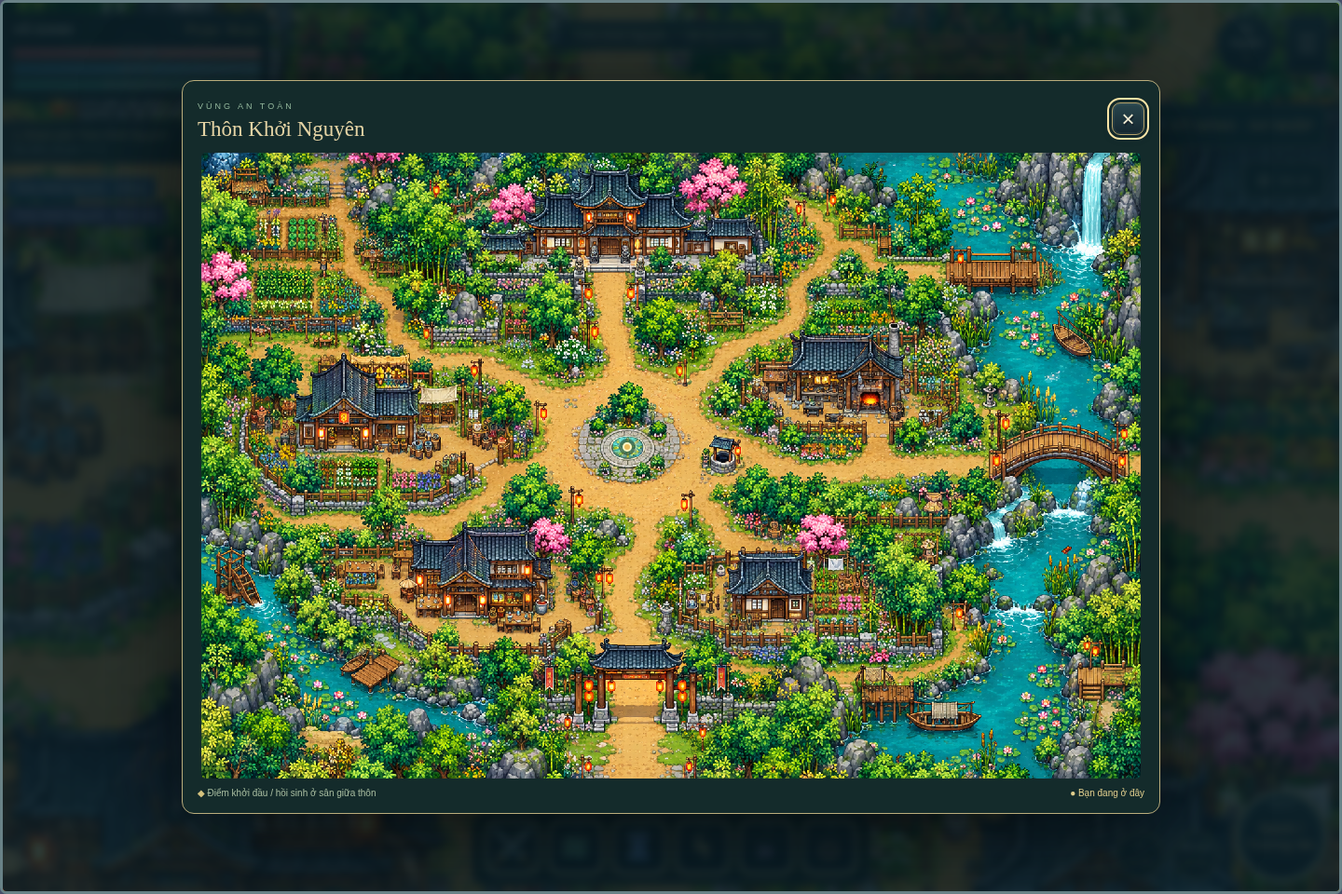
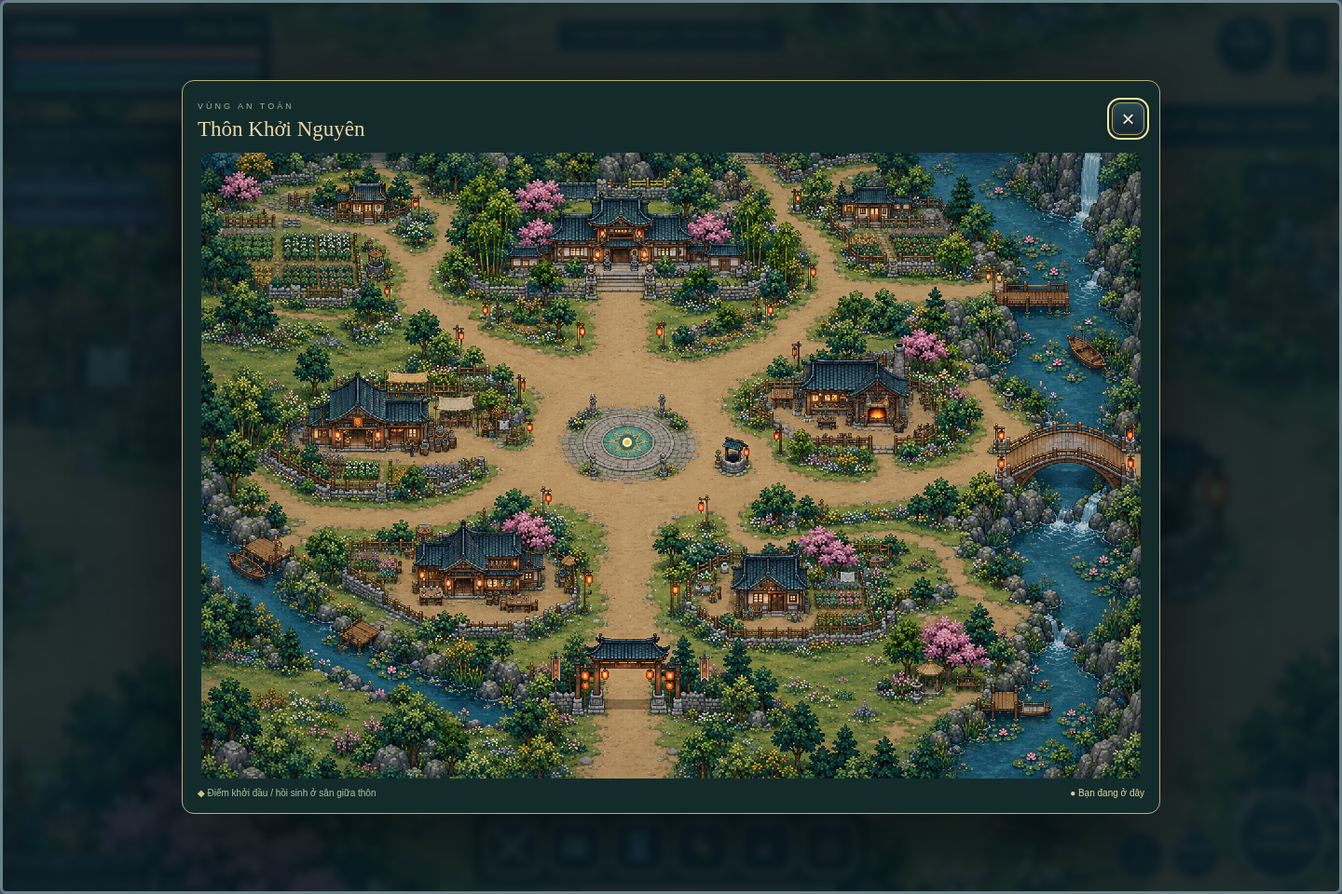
Expand village paths and add a softer palette with saved brightness control

diff --git a/world.js b/world.js
@@ -1,31 +1,37 @@
-/* Navigation is authored against assets/thon-khoi-nguyen.png (1536 × 1024).
-   Corridors follow the painted paths; buildings and scenery remain solid. */
+/* Coordinates are authored against the bundled 1536×1024 artwork, then
+   expanded 1.5× into a 2304×1536 playable world. Road widths follow the new art. */
 (function(root){
- const TILE=32,W=1536,H=1024,name='Thôn Khởi Nguyên',version=5;
- const spawn={x:696,y:482},elder={x:650,y:240};
- const buildings=[{x:460,y:20,w:460,h:176,name:'Nhà trưởng thôn'},{x:151,y:341,w:217,h:149,name:'Dược đường'},{x:944,y:287,w:215,h:148,name:'Tiệm rèn'},{x:347,y:609,w:220,h:151,name:'Khách điếm'},{x:853,y:651,w:153,h:128,name:'Nhà dân'}];
+ const TILE=32,SCALE=1.5,W=2304,H=1536,name='Thôn Khởi Nguyên',version=6;
+ const point=([x,y])=>[x*SCALE,y*SCALE];
+ const position=(x,y)=>({x:x*SCALE,y:y*SCALE});
+ const spawn=position(696,474),elder=position(680,269);
+ const buildings=[{x:505,y:47,w:365,h:181,name:'Nhà trưởng thôn'},{x:169,y:365,w:215,h:126,name:'Dược đường'},{x:967,y:329,w:216,h:164,name:'Tiệm rèn'},{x:346,y:610,w:222,h:145,name:'Khách điếm'},{x:856,y:650,w:147,h:111,name:'Nhà dân'},{x:212,y:50,w:108,h:70,name:'Nhà ven ruộng'},{x:1034,y:53,w:126,h:80,name:'Nhà sườn núi'}].map(b=>({...b,x:b.x*SCALE,y:b.y*SCALE,w:b.w*SCALE,h:b.h*SCALE}));
  const routes=[
-  {r:25,p:[[760,520],[798,550],[850,558],[912,514]]},
-  {r:35,p:[[670,205],[665,260],[666,330],[630,385],[609,432],[598,490],[632,546],[692,567],[752,541],[785,487],[763,425],[728,389],[670,367],[630,385]]},
-  {r:29,p:[[630,387],[560,401],[492,380],[425,346],[340,326],[299,281],[269,218],[232,170],[226,99],[210,33]]},
-  {r:30,p:[[598,490],[533,486],[492,532],[424,567],[354,581],[308,552],[282,513],[269,481]]},
-  {r:26,p:[[425,346],[439,395],[475,433],[511,445],[533,486]]},
-  {r:29,p:[[780,448],[831,409],[886,372],[942,338],[973,281],[995,215],[1014,157],[1030,119],[1006,61]]},
-  {r:24,p:[[995,215],[1061,191],[1134,184],[1217,189],[1303,189],[1357,189]]},
-  {r:31,p:[[785,487],[856,494],[912,514],[989,519],[1069,514],[1141,504],[1221,502],[1289,500],[1326,487],[1371,481],[1424,488],[1474,507],[1504,513]]},
-  {r:29,p:[[1093,440],[1098,455],[1105,493],[1141,504]]},
-  {r:29,p:[[692,567],[703,607],[736,645],[710,703],[695,753],[714,800],[708,844],[697,897],[695,948],[677,990]]},
-  {r:28,p:[[632,546],[646,582],[667,626],[666,683],[650,738],[629,754],[581,793],[534,810],[475,790],[452,766]]},
-  {r:27,p:[[714,800],[775,792],[815,769],[817,704],[802,657],[810,596],[785,543]]},
-  {r:25,p:[[815,769],[853,792],[907,797],[947,784]]},
-  {r:24,p:[[354,581],[318,613],[269,630],[230,670],[241,722],[284,759],[326,781],[377,805],[428,808],[475,790]]},
-  {r:22,p:[[1069,514],[1050,550],[1008,557],[960,556],[902,550]]},
- ];
- const clearings=[{x:696,y:482,rx:94,ry:75},{x:697,y:890,rx:45,ry:65},{x:1100,y:458,rx:49,ry:31},{x:279,y:514,rx:47,ry:28},{x:454,y:771,rx:45,ry:25},{x:946,y:787,rx:44,ry:25}];
- const solids=[{x:648,y:402,w:92,h:40},{x:631,y:509,w:26,h:24},{x:729,y:511,w:30,h:20},{x:830,y:469,w:45,h:59},{x:1050,y:344,w:42,h:64}];
- const places=[{x:666,y:232,name:'Nhà trưởng thôn'},{x:300,y:521,name:'Dược đường'},{x:1100,y:459,name:'Tiệm rèn'},{x:662,y:622,name:'Cổ thụ đầu thôn'}];
+  {r:63,p:[[680,242],[679,296],[679,352],[690,414],[696,474],[700,544],[704,614],[702,683],[704,750],[700,811],[699,880],[707,947],[738,1000]]},
+  {r:57,p:[[675,370],[587,365],[521,335],[454,300],[392,280],[343,243],[304,203],[300,171],[349,142],[403,98],[412,49],[393,23]]},
+  {r:43,p:[[300,171],[274,132],[273,111]]},
+  {r:37,p:[[403,98],[449,130],[470,183],[471,242],[521,294],[587,337],[675,370]]},
+  {r:55,p:[[696,474],[613,508],[552,541],[474,568],[396,591],[333,598],[270,583],[193,571],[121,575]]},
+  {r:42,p:[[277,499],[299,532],[333,567],[396,591]]},
+  {r:49,p:[[521,335],[485,379],[472,422],[500,465],[552,501],[613,508]]},
+  {r:50,p:[[795,399],[861,365],[936,328],[1000,285],[1031,239],[1017,200],[985,152],[966,105],[944,49],[928,20]]},
+  {r:40,p:[[1017,200],[1060,168],[1103,145],[1110,134]]},
+  {r:39,p:[[1031,239],[1113,230],[1191,231],[1261,232],[1324,233],[1398,233]]},
+  {r:62,p:[[696,474],[785,474],[811,541],[884,562],[968,562],[1050,557],[1130,544],[1207,515],[1281,493],[1326,479],[1376,475],[1430,485],[1480,511],[1515,527]]},
+  {r:43,p:[[1100,503],[1099,538],[1130,544]]},
+  {r:45,p:[[704,614],[661,659],[652,711],[613,758],[553,786],[492,786],[470,764]]},
+  {r:42,p:[[704,750],[765,782],[824,800],[887,798],[950,779],[951,768]]},
+  {r:36,p:[[1050,557],[1093,593],[1137,642],[1159,696],[1142,745],[1085,788],[1021,806],[950,779]]},
+  {r:40,p:[[1085,788],[1146,825],[1140,888],[1081,922],[1019,968],[1000,1000]]},
+  {r:33,p:[[333,598],[289,623],[234,651],[208,690],[239,727],[293,766],[348,791],[420,804],[492,786]]},
+  {r:34,p:[[392,280],[330,298],[257,318],[194,332],[130,330]]},
+ ].map(r=>({r:r.r*SCALE,p:r.p.map(point)}));
+ const clearings=[{x:696,y:474,rx:157,ry:124},{x:700,y:879,rx:66,ry:58},{x:1100,y:515,rx:62,ry:29},{x:280,y:520,rx:54,ry:29},{x:470,y:773,rx:53,ry:23},{x:951,y:780,rx:49,ry:22},{x:1135,y:861,rx:85,ry:53},{x:130,y:329,rx:74,ry:35}].map(p=>({x:p.x*SCALE,y:p.y*SCALE,rx:p.rx*SCALE,ry:p.ry*SCALE}));
+ const solids=[{x:851,y:469,w:42,h:58},{x:632,y:394,w:14,h:37},{x:746,y:394,w:14,h:37},{x:630,y:507,w:18,h:25},{x:747,y:510,w:18,h:25},{x:1163,y:837,w:57,h:61}].map(b=>({x:b.x*SCALE,y:b.y*SCALE,w:b.w*SCALE,h:b.h*SCALE}));
+ const places=[{x:680,y:269,name:'Nhà trưởng thôn'},{x:300,y:532,name:'Dược đường'},{x:1100,y:522,name:'Tiệm rèn'},{x:652,y:659,name:'Cổ thụ đầu thôn'}].map(p=>({...position(p.x,p.y),name:p.name}));
+ const landmarks={gate:position(699,880),bridge:position(1475,510),northwest:position(274,132),northeast:position(1103,145),meadow:position(1135,861)};
  function segmentDistance(x,y,a,b){const dx=b[0]-a[0],dy=b[1]-a[1],d=dx*dx+dy*dy;const t=d?Math.max(0,Math.min(1,((x-a[0])*dx+(y-a[1])*dy)/d)):0;return Math.hypot(x-a[0]-t*dx,y-a[1]-t*dy);}
- function onBridge(x,y){return x>=1280&&x<=1510&&Math.abs(y-(481+Math.abs(x-1371)*.22))<25;}
- function blocked(x,y){if(!Number.isFinite(x)||!Number.isFinite(y)||x<16||y<16||x>W-16||y>H-16)return true;if(solids.some(s=>x>s.x-5&&x<s.x+s.w+5&&y>s.y-5&&y<s.y+s.h+5))return true;if(buildings.some(b=>x>b.x&&x<b.x+b.w&&y>b.y&&y<b.y+b.h))return true;const open=clearings.some(p=>((x-p.x)/p.rx)**2+((y-p.y)/p.ry)**2<1)||routes.some(route=>route.p.some((point,i)=>i>0&&segmentDistance(x,y,route.p[i-1],point)<route.r));return !open;}
- const api={TILE,W,H,name,version,spawn,elder,buildings,solids,places,routes,clearings,onBridge,blocked,segmentDistance};root.Village=api;if(typeof module!=='undefined')module.exports=api;
+ function onBridge(x,y){x/=SCALE;y/=SCALE;return x>=1280&&x<=1518&&Math.abs(y-(475+Math.abs(x-1376)*.35))<38;}
+ function blocked(x,y){if(!Number.isFinite(x)||!Number.isFinite(y)||x<16||y<16||x>W-16||y>H-16)return true;if(solids.some(s=>x>s.x-5&&x<s.x+s.w+5&&y>s.y-5&&y<s.y+s.h+5))return true;if(buildings.some(b=>x>b.x&&x<b.x+b.w&&y>b.y&&y<b.y+b.h))return true;return !(clearings.some(p=>((x-p.x)/p.rx)**2+((y-p.y)/p.ry)**2<1)||routes.some(route=>route.p.some((point,i)=>i>0&&segmentDistance(x,y,route.p[i-1],point)<route.r)));}
+ const api={TILE,SCALE,W,H,name,version,spawn,elder,buildings,solids,places,routes,clearings,landmarks,onBridge,blocked,segmentDistance};root.Village=api;if(typeof module!=='undefined')module.exports=api;
 })(typeof window!=='undefined'?window:globalThis);

diff --git a/game.js b/game.js
@@ -2,7 +2,7 @@
 const canvas=document.querySelector('#game'),ctx=canvas.getContext('2d'),V=Village;
 let width=960,height=540,scale=1,clock=0,last=0,walking=false,facing=1,saveTime=0,toastTime=5,dialogOpen=false;
 const player={...V.spawn},visited=new Set(),keys=new Set(),joy={x:0,y:0};let storage=true;
-try{const s=JSON.parse(localStorage.getItem('tutien-v1'));if(s&&s.version===V.version&&Number.isFinite(s.x)&&Number.isFinite(s.y)&&!V.blocked(s.x,s.y)){player.x=s.x;player.y=s.y;(s.visited||[]).filter(n=>V.places.some(p=>p.name===n)).forEach(n=>visited.add(n));}}catch{storage=false;}
+try{const s=JSON.parse(localStorage.getItem('tutien-v1'));if(s){if(s.version===V.version&&Number.isFinite(s.x)&&Number.isFinite(s.y)&&!V.blocked(s.x,s.y)){player.x=s.x;player.y=s.y;}if(Array.isArray(s.visited))s.visited.filter(n=>V.places.some(p=>p.name===n)).forEach(n=>visited.add(n));}}catch{storage=false;}
 const $=s=>document.querySelector(s);
 function resize(){const frame=canvas.parentElement;const zoom=frame.clientWidth<700?1:2;width=Math.ceil(frame.clientWidth/zoom);height=Math.ceil(frame.clientHeight/zoom);canvas.width=width;canvas.height=height;canvas.style.width=width*zoom+'px';canvas.style.height=height*zoom+'px';ctx.imageSmoothingEnabled=false;scale=1;}
 new ResizeObserver(resize).observe(canvas.parentElement);
@@ -21,7 +21,7 @@ $('#progress').textContent=`Địa điểm đã ghé: ${visited.size} / 4`;$('#i
 toastTime-=dt;if(toastTime<0)$('#toast').style.opacity=0;saveTime+=dt;if(saveTime>3){save();saveTime=0;}}
 function loop(t){const dt=Math.min((t-last)/1000||0,.035);last=t;update(dt);render();requestAnimationFrame(loop);}requestAnimationFrame(loop);
 function interact(){if(dialogOpen){dialogOpen=false;$('#dialog').hidden=true;return;}if(Math.hypot(player.x-V.elder.x,player.y-V.elder.y)>65)return;dialogOpen=true;$('#dialog p').textContent='Thiếu hiệp mới đến sao? Đây là Thôn Khởi Nguyên. Hãy ghé dược đường phía tây, tiệm rèn phía đông và cây cổ thụ ở phía nam. Tiên lộ còn dài, cứ thong thả bước đi.';$('#dialog').hidden=false;}
-window.addEventListener('keydown',e=>{if(['ArrowUp','ArrowDown','ArrowLeft','ArrowRight',' '].includes(e.key))e.preventDefault();keys.add(e.key.toLowerCase());if(!e.repeat&&(e.key.toLowerCase()==='e'||e.key==='Enter'))interact();});window.addEventListener('keyup',e=>keys.delete(e.key.toLowerCase()));window.addEventListener('blur',()=>{keys.clear();joy.x=joy.y=0;});document.addEventListener('visibilitychange',()=>{keys.clear();joy.x=joy.y=0;save();});
+window.addEventListener('keydown',e=>{if(e.target instanceof HTMLInputElement||e.target instanceof HTMLTextAreaElement)return;if(['ArrowUp','ArrowDown','ArrowLeft','ArrowRight',' '].includes(e.key))e.preventDefault();keys.add(e.key.toLowerCase());if(!e.repeat&&(e.key.toLowerCase()==='e'||e.key==='Enter'))interact();});window.addEventListener('keyup',e=>keys.delete(e.key.toLowerCase()));window.addEventListener('blur',()=>{keys.clear();joy.x=joy.y=0;});document.addEventListener('visibilitychange',()=>{keys.clear();joy.x=joy.y=0;save();});
 $('#interact').onclick=interact;$('#close-dialog').onclick=interact;$('#quest-toggle').onclick=()=>{const collapsed=$('.quest').classList.toggle('collapsed');$('#quest-toggle').textContent=collapsed?'+':'−';$('#quest-toggle').setAttribute('aria-label',collapsed?'Mở nhiệm vụ':'Thu gọn nhiệm vụ');};
 let pointer=null;function moveStick(e){const r=$('#joystick').getBoundingClientRect();let x=e.clientX-r.left-r.width/2,y=e.clientY-r.top-r.height/2,len=Math.hypot(x,y),m=Math.min(1,34/(len||1));x*=m;y*=m;joy.x=x/34;joy.y=y/34;$('#stick').style.transform=`translate(${x}px,${y}px)`;}
 $('#joystick').addEventListener('pointerdown',e=>{if(pointer!==null)return;pointer=e.pointerId;e.currentTarget.setPointerCapture(pointer);moveStick(e);});$('#joystick').addEventListener('pointermove',e=>{if(e.pointerId===pointer)moveStick(e);});function release(e){if(e.pointerId!==pointer)return;pointer=null;joy.x=joy.y=0;$('#stick').style.transform='';}for(const name of ['pointerup','pointercancel','lostpointercapture'])$('#joystick').addEventListener(name,release);
@@ -40,7 +40,7 @@ function meditate(){meditating=!meditating;toast(meditating?'Đả tọa — tĩ
 $('#cultivate').onclick=meditate;$('#meditate').onclick=meditate;
 $('#help').onclick=()=>{ $('#menu').hidden=false;$('#menu-toggle').setAttribute('aria-expanded','true');};
 $('#attack').onclick=()=>{if(!$('#interact').hidden||dialogOpen)interact();else cast(0);};
-window.addEventListener('keydown',e=>{if(e.repeat||e.target instanceof HTMLButtonElement)return;if(/^[1-6]$/.test(e.key))cast(Number(e.key)-1);if(e.code==='Space')$('#attack').click();if(e.key.toLowerCase()==='t')meditate();if(e.key==='Escape'&&!$('#menu').hidden)$('#menu-toggle').click();});
+window.addEventListener('keydown',e=>{if(e.repeat||e.target instanceof HTMLButtonElement||e.target instanceof HTMLInputElement||e.target instanceof HTMLTextAreaElement)return;if(/^[1-6]$/.test(e.key))cast(Number(e.key)-1);if(e.code==='Space')$('#attack').click();if(e.key.toLowerCase()==='t')meditate();if(e.key==='Escape'&&!$('#menu').hidden)$('#menu-toggle').click();});
 
 function respawn(){player.x=V.spawn.x;player.y=V.spawn.y;keys.clear();joy.x=joy.y=0;meditating=false;effect=null;dialogOpen=false;$('#dialog').hidden=true;save();toast('Đã trở về Linh Thạch — điểm khởi đầu / hồi sinh');}
 $('#return-spawn').onclick=()=>{respawn();$('#menu').hidden=true;$('#menu-toggle').setAttribute('aria-expanded','false');};
@@ -51,3 +51,7 @@ $('#map-peek').onclick=()=>toggleMap(true);$('#open-map').onclick=()=>toggleMap(
 $('#map-overview').onclick=e=>{if(e.target===$('#map-overview'))toggleMap(false);};
 window.addEventListener('keydown',e=>{if(e.key==='Escape'&&!$('#map-overview').hidden){e.preventDefault();toggleMap(false);}});
 Scenery.loaded.then(ok=>{if(!ok)toast('Không tải được ảnh map — hãy tải lại trang');});
+
+function updateBrightnessControl(){const value=Scenery.brightness;$('#brightness').value=value;$('#brightness-value').textContent=value+'%';$('#overview-art').style.filter=`brightness(${value}%) saturate(95%)`;}
+$('#brightness').addEventListener('input',e=>{keys.clear();Scenery.setBrightness(e.target.value);updateBrightnessControl();});
+updateBrightnessControl();

diff --git a/index.html b/index.html
@@ -5,11 +5,11 @@
 <div class="world-tags"><span>Thôn Khởi Nguyên · Offline</span><span class="night">Thôn Khởi Nguyên · Bình yên</span></div>
 <nav class="top-actions" aria-label="Tiện ích"><button id="cultivate" class="round">Tu<br>luyện<small>T</small></button><button id="menu-toggle" aria-expanded="false" aria-controls="menu" aria-label="Mở menu">☰</button></nav>
 <button id="skills-toggle" class="skills-title">⚔ KỸ NĂNG · SƠ NHẬP</button>
-<section id="menu" class="panel" hidden><h2>Hành trang tiên lộ</h2><p>WASD / ↑ ↓ ← →: di chuyển<br>Shift: chạy · E: trò chuyện<br>1–6: thi triển hiệu ứng kỹ năng<br>Space: vung kiếm · T: tu luyện</p><button id="open-map">▧ Bản đồ toàn thôn</button><button id="return-spawn">⌂ Về điểm hồi sinh</button><button id="sound" aria-pressed="false">♫ <span>Âm thanh: tắt</span></button><button id="fullscreen">⛶ Toàn màn hình</button><small id="save-state">Tự động lưu trên thiết bị</small><p class="note">Bản khám phá offline · Chưa có chiến đấu.</p></section>
+<section id="menu" class="panel" hidden><h2>Hành trang tiên lộ</h2><p>WASD / ↑ ↓ ← →: di chuyển<br>Shift: chạy · E: trò chuyện<br>1–6: thi triển hiệu ứng kỹ năng<br>Space: vung kiếm · T: tu luyện</p><button id="open-map">▧ Bản đồ toàn thôn</button><button id="return-spawn">⌂ Về điểm hồi sinh</button><label class="brightness-control" for="brightness">Độ sáng cảnh <output id="brightness-value">92%</output><input id="brightness" type="range" min="60" max="110" value="92" step="1"></label><button id="sound" aria-pressed="false">♫ <span>Âm thanh: tắt</span></button><button id="fullscreen">⛶ Toàn màn hình</button><small id="save-state">Tự động lưu trên thiết bị</small><p class="note">Bản khám phá offline · Chưa có chiến đấu.</p></section>
 <button id="map-peek" class="map-peek" aria-label="Mở bản đồ toàn thôn"><span>▧</span> Bản đồ</button><section id="map-overview" class="map-overview" hidden aria-label="Bản đồ Thôn Khởi Nguyên"><div class="overview-card"><header><div><small>VÙNG AN TOÀN</small><h2>Thôn Khởi Nguyên</h2></div><button id="close-map" aria-label="Đóng bản đồ">×</button></header><div class="overview-image"><img id="overview-art" alt="Toàn cảnh Thôn Khởi Nguyên"><i id="map-marker" title="Bạn đang ở đây"></i></div><p><span>◆</span> Điểm khởi đầu / hồi sinh ở sân giữa thôn <b>● Bạn đang ở đây</b></p></div></section><div id="toast" role="status">Thôn Khởi Nguyên — tiên lộ khởi hành</div>
 <button id="interact" class="interact" hidden><kbd>E</kbd> Trò chuyện</button>
 <div id="joystick" aria-label="Cần điều khiển cảm ứng"><div id="stick"></div></div>
 <div class="skill-bar" aria-label="Kỹ năng hiệu ứng"><button data-skill="0" title="Kiếm khí — hiệu ứng"><kbd>1</kbd><span>⚔</span></button><button data-skill="1" title="Thanh phong — hiệu ứng"><kbd>2</kbd><span>≋</span></button><button data-skill="2" title="Băng trụ — hiệu ứng"><kbd>3</kbd><span>♜</span></button><button data-skill="3" title="Lôi quang — hiệu ứng"><kbd>4</kbd><span>ϟ</span></button><button data-skill="4" title="Ảnh bộ — hiệu ứng"><kbd>5</kbd><span>»</span></button><button data-skill="5" title="Hỏa liên — hiệu ứng"><kbd>6</kbd><span>☼</span></button></div>
 <div class="quick-actions"><button id="help" class="round">?<small>Chỉ dẫn</small></button><button id="meditate" class="round">Đả tọa<small>Hồi tâm</small></button></div><button id="attack" class="attack"><small>Space</small>Đánh /<br>Tương tác</button>
-<div class="map-label">THANH KHÊ THÔN · THÔN KHỞI NGUYÊN · OFFLINE 0.5</div><div id="dialog" class="dialog" hidden><small>TRƯỞNG THÔN</small><p></p><button id="close-dialog">Tiếp tục hành trình ↵</button></div>
+<div class="map-label">THANH KHÊ THÔN · THÔN KHỞI NGUYÊN · OFFLINE 0.6</div><div id="dialog" class="dialog" hidden><small>TRƯỞNG THÔN</small><p></p><button id="close-dialog">Tiếp tục hành trình ↵</button></div>
 </main><script src="world.js"></script><script src="tiles.js"></script><script src="scenery.js"></script><script src="game.js"></script></body></html>

diff --git a/scenery.js b/scenery.js
@@ -1,9 +1,13 @@
-/* Original illustrated village artwork, generated for this project from the reference.
-   Navigation data in world.js follows the paths of this exact image. */
+/* Bundled village artwork. Navigation in world.js follows this exact scene.
+   Colour correction is cached, so adjusting eye comfort costs no per-frame filter. */
 const Scenery=(()=>{
- const image=new Image();image.src='assets/thon-khoi-nguyen.png';
- let ready=false,failed=false;
- const loaded=new Promise(resolve=>{image.onload=()=>{ready=true;resolve(true);};image.onerror=()=>{failed=true;resolve(false);};});
- function ground(){if(ready){ctx.drawImage(image,0,0,V.W,V.H);return;}ctx.fillStyle='#243d34';ctx.fillRect(0,0,V.W,V.H);ctx.fillStyle='#dac899';ctx.textAlign='center';ctx.font='14px sans-serif';ctx.fillText(failed?'Không tải được bản đồ. Hãy tải lại trang.':'Đang mở Thôn Khởi Nguyên…',V.spawn.x,V.spawn.y);}
- return {ground,loaded,get ready(){return ready;},image};
+ const image=new Image(),layer=document.createElement('canvas');
+ let ready=false,failed=false,brightness=92;
+ try{const saved=Number(localStorage.getItem('tutien-brightness'));if(Number.isFinite(saved)&&saved>=60&&saved<=110)brightness=saved;}catch{}
+ function rebuild(){if(!image.naturalWidth)return;layer.width=image.naturalWidth;layer.height=image.naturalHeight;const paint=layer.getContext('2d');paint.imageSmoothingEnabled=false;paint.filter=`brightness(${brightness}%) saturate(95%)`;paint.drawImage(image,0,0);}
+ function setBrightness(value){const number=Number(value);if(!Number.isFinite(number))return;brightness=Math.max(60,Math.min(110,Math.round(number)));rebuild();try{localStorage.setItem('tutien-brightness',String(brightness));}catch{}}
+ const loaded=new Promise(resolve=>{image.onload=()=>{rebuild();ready=true;resolve(true);};image.onerror=()=>{failed=true;resolve(false);};});
+ image.src='assets/thon-khoi-nguyen.png';
+ function ground(){if(ready){ctx.drawImage(layer,0,0,V.W,V.H);return;}ctx.fillStyle='#243d34';ctx.fillRect(0,0,V.W,V.H);ctx.fillStyle='#dac899';ctx.textAlign='center';ctx.font='14px sans-serif';ctx.fillText(failed?'Không tải được bản đồ. Hãy tải lại trang.':'Đang mở Thôn Khởi Nguyên…',V.spawn.x,V.spawn.y);}
+ return {ground,loaded,setBrightness,get brightness(){return brightness;},get ready(){return ready;},image};
 })();

diff --git a/style.css b/style.css
@@ -2,3 +2,5 @@
 
 .map-peek{position:absolute;right:14px;top:170px;padding:9px 15px;font-size:11px;color:#d4d7b5;background:#17363ce6}.map-peek span{font-size:16px;margin-right:5px}.map-overview{position:absolute;inset:0;z-index:15;background:#081b23d9;display:grid;place-items:center;padding:22px;backdrop-filter:blur(5px)}.overview-card{width:min(1050px,100%);max-height:100%;padding:16px;background:#142b2b;border:1px solid #baad7c;border-radius:13px;box-shadow:0 20px 100px #0009;overflow:auto}.overview-card header{display:flex;justify-content:space-between;align-items:center;margin-bottom:12px}.overview-card header small{font-size:9px;letter-spacing:3px;color:#92b69b}.overview-card h2{font:23px Georgia,serif;margin:5px 0 0;color:#e4d3a4}.overview-card header button{width:35px;height:35px;font-size:24px}.overview-image{position:relative}.overview-image img{display:block;width:100%;max-height:70dvh;object-fit:contain;border-radius:5px;image-rendering:pixelated}.overview-image i{position:absolute;width:10px;height:10px;transform:translate(-50%,-50%);border:2px solid #fffbc9;background:#e9bc5d;border-radius:50%;box-shadow:0 0 0 4px #284b35aa,0 0 14px #fff5a0;pointer-events:none}.overview-card p{font-size:10px;color:#a9bea1;margin-bottom:0}.overview-card p>span{color:#d4c27e}.overview-card p b{float:right;font-weight:normal;color:#e0ce8d}@media(max-width:700px){.map-peek{top:110px;right:8px;padding:7px 10px;font-size:10px}.map-overview{padding:9px}.overview-card{padding:11px}.overview-card h2{font-size:18px}.overview-card p{font-size:8px;line-height:1.8}.overview-card p b{float:none;display:block}.overview-image img{max-height:none}}
 .overview-image{width:fit-content;max-width:100%;margin:auto}.overview-image img{width:auto;max-width:100%;height:auto}
+
+.brightness-control{display:block;font-size:12px;color:#c5d0b7;padding:12px 0 7px}.brightness-control output{float:right;color:#d7c08b}.brightness-control input{width:100%;display:block;margin:13px 0 2px;accent-color:#a4ad81;cursor:pointer}.brightness-control input:focus-visible{outline:2px solid #cfbc84;outline-offset:3px}

diff --git a/README.md b/README.md
@@ -1,4 +1,4 @@
-# Tu Tiên — Thôn Khởi Nguyên · 0.5
+# Tu Tiên — Thôn Khởi Nguyên · 0.6
 
 Game khám phá 2D top-down trên trình duyệt, dùng toàn bộ tài nguyên nội bộ. Không có dependency hoặc bước build.
 
@@ -8,11 +8,13 @@ Game khám phá 2D top-down trên trình duyệt, dùng toàn bộ tài nguyên 
 
 ## Map mới
 
-`assets/thon-khoi-nguyen.png` là ảnh nền gốc 1536×1024 tạo cho dự án bằng công cụ sinh ảnh, lấy cảm hứng từ ảnh thôn được cung cấp. Cảnh có đường đất uốn quanh các cụm nhà mái ngói, sân vườn, ruộng thuốc, rừng trúc/đào, sông, cầu, bến thuyền và thác nước. Map hiện dùng ảnh nền vẽ sẵn; **không còn là terrain ghép từ bộ tile 32×32 của bản 0.4**. Nhân vật vẫn dùng sprite gốc 32×32, bốn hướng, ba tư thế mỗi hướng; hiển thị nguyên pixel, không làm mịn.
+`assets/thon-khoi-nguyen.png` là ảnh nền gốc 1536×1024, dựng thành thế giới 2304×1536 (diện tích thế giới bằng 2,25 lần bản 0.5), tạo cho dự án bằng công cụ sinh ảnh, lấy cảm hứng từ ảnh thôn được cung cấp. Cảnh mới có đường đất rộng, sân giữa thôn thoáng, hai nhà phụ phía bắc và nhánh bãi cỏ phía đông nam. Đường chính rộng khoảng 165–189 đơn vị thế giới, so với khoảng 58–70 ở bản trước. Kiến trúc, sông, cầu và vườn được bố trí lại để bớt chật. Ánh sáng chiều dịu, màu xanh rêu và đường đất trầm thay cho màu vàng/xanh chói. Map hiện dùng ảnh nền vẽ sẵn; **không còn là terrain ghép từ bộ tile 32×32 của bản 0.4**. Nhân vật vẫn dùng sprite gốc 32×32, bốn hướng, ba tư thế mỗi hướng; hiển thị nguyên pixel, không làm mịn.
+
+Menu ☰ có thanh **Độ sáng cảnh** từ 60% đến 110%, mặc định 92%. Tùy chọn lưu riêng trên thiết bị và áp dụng cho cả cảnh chơi lẫn bản đồ tổng quan. Lớp ảnh đã chỉnh màu được lưu đệm, không chạy bộ lọc lại mỗi frame. HUD và nhân vật giữ độ rõ.
 
 `world.js` định nghĩa các hành lang đi được theo lối mòn trên chính ảnh này, sân trống, vị trí nhà và chướng ngại vật. Nhà, giếng, mặt nước và rừng dày không đi xuyên được. Cảnh nền là một lớp phẳng; chưa có hệ thống tách lớp tán cây/mái nhà cho che khuất nhân vật. Muốn chỉnh cảnh bằng tile editor trong tương lai cần chuyển artwork thành tileset/layer riêng.
 
-Điểm bắt đầu và hồi sinh ở vòng ngọc giữa sân thôn `(696, 482)`. Menu ☰ → **Về điểm hồi sinh** quay về đó và giữ tiến độ. Chưa có hệ thống sinh tử; `respawn()` sẵn cho việc tích hợp sau. Save có phiên bản bản đồ; save cũ từ map 0.4 bắt đầu lại tại sân mới để tránh khôi phục vào nhà hoặc nước.
+Điểm bắt đầu và hồi sinh ở vòng ngọc giữa sân thôn `(1044, 711)`. Menu ☰ → **Về điểm hồi sinh** quay về đó và giữ tiến độ. Chưa có hệ thống sinh tử; `respawn()` sẵn cho việc tích hợp sau. Save có phiên bản bản đồ; save của phiên bản map cũ đưa vị trí về sân mới, giữ các địa điểm đã khám phá để tránh mất tiến độ hoặc khôi phục vào vật cản.
 
 Nút **Bản đồ** mở toàn cảnh cùng dấu vị trí nhân vật; đóng bằng × hoặc Escape. Nhân vật dừng di chuyển khi mở bản đồ.
 
@@ -29,9 +31,9 @@ Bốn địa điểm khám phá: nhà trưởng thôn, dược đường, tiệm
 
 ## Kiểm tra
 
-`npm test`: 7 kiểm tra gồm vị trí bắt đầu/địa điểm, vật cản, đường kết nối tới tất cả địa điểm/cổng/cầu, nước/rừng, sân hồi sinh, cầu cong và tọa độ ngoài biên. `node --check game.js` kiểm tra cú pháp.
+`npm test`: 8 kiểm tra gồm vị trí bắt đầu/địa điểm, vật cản, đường kết nối tới tất cả địa điểm/cổng/cầu, nước/rừng, sân hồi sinh, cầu cong tọa độ ngoài biên, kích thước thế giới và bề rộng đường chính. `node --check game.js` kiểm tra cú pháp.
 
-Đã kiểm tra bằng Chromium: tải artwork cục bộ, WASD, hội thoại, hồi sinh, lưu/tải lại, mở/đóng bản đồ, tạm dừng khi xem bản đồ và sự kiện cảm ứng thực qua CDP trên viewport điện thoại. Không có request tới tài nguyên bên ngoài. Chưa kiểm tra trên điện thoại vật lý.
+Đã kiểm tra bằng Chromium: tải artwork cục bộ, WASD, hội thoại, hồi sinh, lưu/tải lại, mở/đóng bản đồ, tạm dừng khi xem bản đồ và sự kiện cảm ứng thực qua CDP trên viewport điện thoại. Đã kiểm tra thêm mặc định độ sáng, thay đổi thực tế của pixel cảnh, điều khiển slider bằng bàn phím, lưu độ sáng sau reload và giữ tiến độ cũ khi chuyển map. Không có request tới tài nguyên bên ngoài. Chưa kiểm tra trên điện thoại vật lý.
 
 Ảnh hiện tại: `docs/map-illustrated-desktop.png`, `docs/map-illustrated-mobile.png`, `docs/map-overview.png`. Ảnh `map-32px.png` và `assets/tileset-32.png` lưu bản thiết kế 0.4 trước đó, không đại diện map mới.
 
